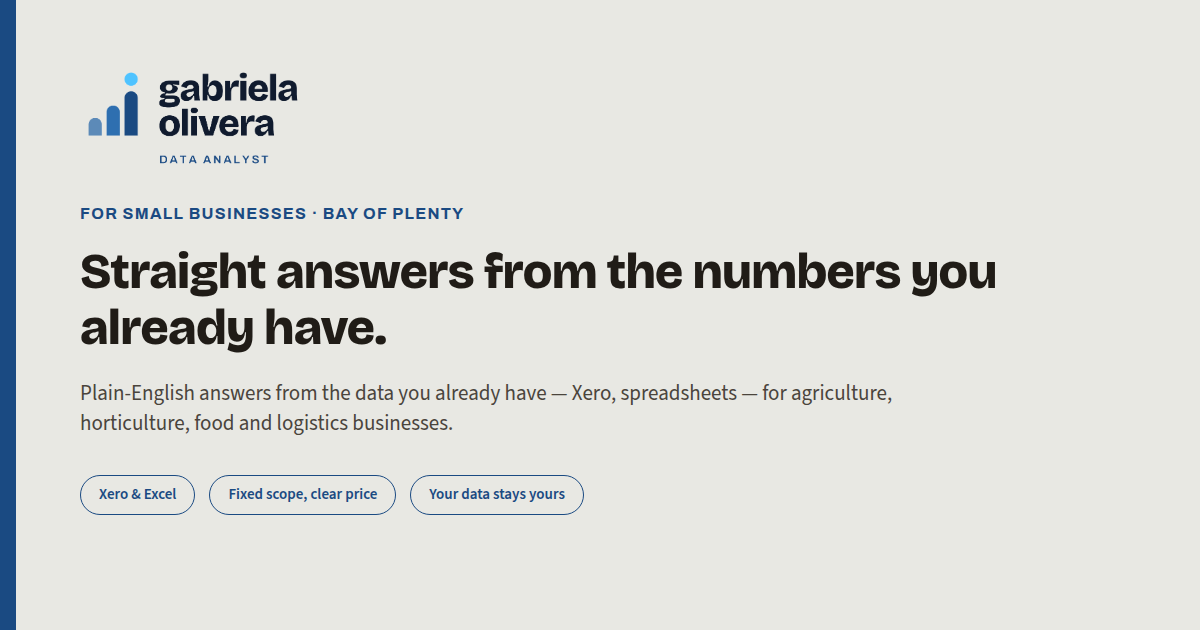
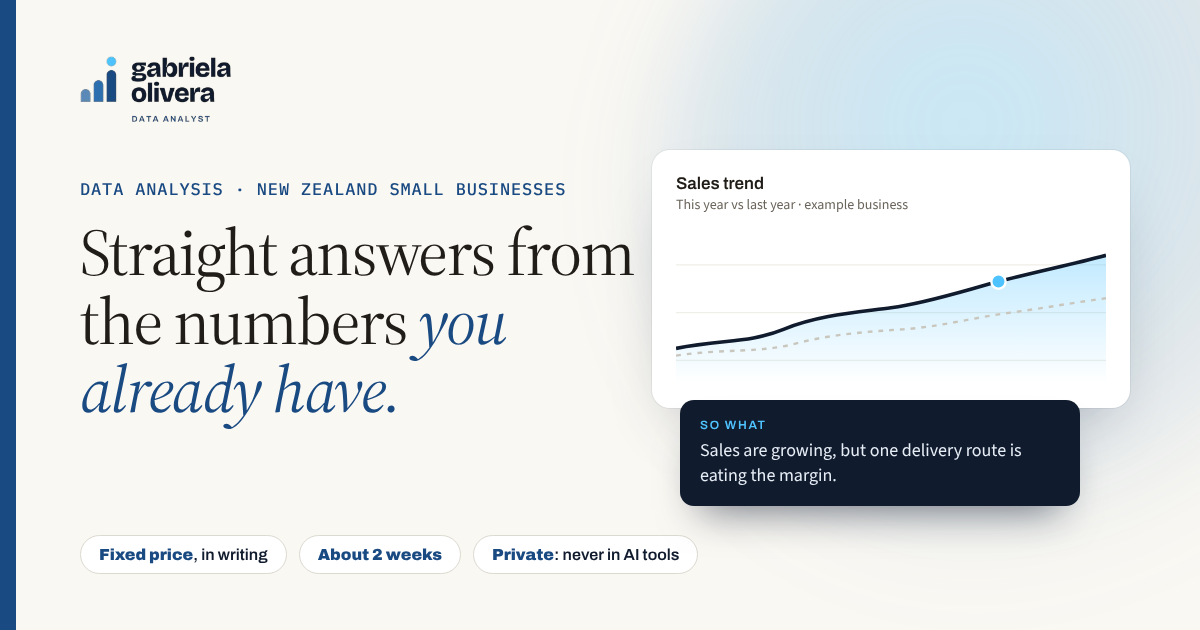
Share cards redesigned to match the site; home meta description covers all NZ small businesses; licence lists the new fonts
Claude-Session: https://claude.ai/code/session_01YEdAGcppATCkLyBV433t5n

diff --git a/scripts/og-card-small-business-template.html b/scripts/og-card-small-business-template.html
@@ -1,85 +1,49 @@
 <!DOCTYPE html>
 <!--
-  Source template for assets/images/og-card-small-business.png — the
-  small-business/index.html-only counterpart to og-card-template.html
-  (which still covers index.html and 404.html's shared card). Not part of
-  the shipped site — nothing links here. Regenerate the PNG with
-  `npm run generate:og-card:small-business` after editing this file, any
-  of the copy below, assets/images/logo-mark.png, or --accent/--bg/--text*
-  in assets/styles.css. See CLAUDE.md, "The small-business page has its
-  own OG card".
+  Source template for assets/images/og-card-small-business.png, the share card for the
+  home page (index.html). The file name is historical (the home page was the small-business
+  page until 2026-10-27). Not part of the shipped site. Redesigned 30 Oct 2026 to match the
+  consultancy redesign. Keep the 16px #1A4A82 bar: check:og-card counts its pixels against
+  --accent in assets/styles.css.
 -->
-<html lang="en-NZ">
-<head>
-<meta charset="utf-8">
-<title>OG card template — small business (not a real page)</title>
-<link rel="stylesheet" href="../assets/styles.css">
-<style>
-  html, body { margin: 0; padding: 0; }
-  .card {
-    width: 1200px;
-    height: 630px;
-    position: relative;
-    background: var(--bg);
-    overflow: hidden;
-  }
-  .card__bar { position: absolute; left: 0; top: 0; width: 16px; height: 100%; background: var(--accent); }
-  .card__content { position: absolute; left: 80px; top: 64px; right: 80px; }
-  .card__logo { height: 108px; margin-bottom: 30px; display: block; }
-  .card__eyebrow {
-    font-family: var(--font-heading);
-    font-weight: 700;
-    font-size: 16px;
-    letter-spacing: 0.08em;
-    text-transform: uppercase;
-    color: var(--accent);
-    margin: 0 0 18px;
-  }
-  .card__title {
-    font-family: var(--font-display);
-    font-weight: 800;
-    font-size: 50px;
-    line-height: 1.12;
-    letter-spacing: -0.015em;
-    color: var(--text);
-    margin: 0 0 22px;
-    max-width: 980px;
-  }
-  .card__lede {
-    font-family: var(--font-body);
-    font-weight: 400;
-    font-size: 21px;
-    line-height: 1.45;
-    color: var(--text-muted);
-    max-width: 880px;
-    margin: 0 0 36px;
-  }
-  .card__badges { display: flex; gap: 14px; }
-  .card__badge {
-    font-family: var(--font-body);
-    font-weight: 600;
-    font-size: 15px;
-    color: var(--accent);
-    border: 1.5px solid var(--accent);
-    border-radius: 999px;
-    padding: 8px 18px;
-  }
-</style>
-</head>
-<body>
-  <div class="card">
-    <div class="card__bar"></div>
-    <div class="card__content">
-      <img class="card__logo" src="../assets/images/logo-mark.png" alt="">
-      <p class="card__eyebrow">For small businesses &middot; Bay of Plenty</p>
-      <h1 class="card__title">Straight answers from the numbers you already have.</h1>
-      <p class="card__lede">Plain-English answers from the data you already have &mdash; Xero, spreadsheets &mdash; for agriculture, horticulture, food and logistics businesses.</p>
-      <div class="card__badges">
-        <div class="card__badge">Xero &amp; Excel</div>
-        <div class="card__badge">Fixed scope, clear price</div>
-        <div class="card__badge">Your data stays yours</div>
-      </div>
-    </div>
-  </div>
-</body>
-</html>
+<html lang="en-NZ"><head><meta charset="utf-8"><title>OG card template, home (not a real page)</title>
+<style>@font-face{font-family:"Source Serif 4";font-weight:200 900;src:url("../assets/fonts/source-serif-4-latin.woff2") format("woff2")}
+@font-face{font-family:"Source Serif 4";font-style:italic;font-weight:200 900;src:url("../assets/fonts/source-serif-4-latin-italic.woff2") format("woff2")}
+@font-face{font-family:"IBM Plex Mono";font-weight:500;src:url("../assets/fonts/ibm-plex-mono-latin-500.woff2") format("woff2")}
+@font-face{font-family:"Source Sans 3";font-weight:400 700;src:url("../assets/fonts/source-sans-3-latin.woff2") format("woff2")}
+@font-face{font-family:"Archivo";font-weight:500 900;src:url("../assets/fonts/archivo-latin.woff2") format("woff2")}
+html,body{margin:0;padding:0}
+.card{width:1200px;height:630px;position:relative;overflow:hidden;background:#faf8f3;font-family:"Source Sans 3",sans-serif;color:#201c17}
+.card::before{content:"";position:absolute;width:760px;height:760px;right:-220px;top:-180px;border-radius:50%;background:radial-gradient(circle at 40% 40%,rgba(79,195,255,.30),rgba(46,111,176,.14) 45%,transparent 70%);filter:blur(50px)}
+/* exact --accent bar: check:og-card counts these pixels */
+.bar{position:absolute;left:0;top:0;width:16px;height:100%;background:#1A4A82}
+.logo{position:absolute;left:80px;top:56px;height:66px}
+.lab{font:500 17px "IBM Plex Mono",monospace;letter-spacing:.05em;text-transform:uppercase;color:#1a4a82;margin:0}
+h1{font:400 66px/1.04 "Source Serif 4",serif;letter-spacing:-.025em;margin:18px 0 0;color:#201c17}
+h1 em{font-style:italic;color:#1a4a82}
+.lede{font-size:23px;line-height:1.45;color:#5c564a;margin:20px 0 0}
+
+.txt{position:absolute;left:80px;top:178px;width:600px}
+.chips{position:absolute;left:80px;bottom:56px;display:flex;gap:12px}
+.chip{font:600 16px "Archivo",sans-serif;color:#101b2e;background:#fff;border:1px solid #dcd9d0;border-radius:999px;padding:10px 18px}
+.chip b{color:#1a4a82}
+.cc{position:absolute;right:70px;top:150px;width:430px;background:#fff;border-radius:18px;padding:24px;box-shadow:0 0 0 1px rgba(16,27,46,.06),0 30px 60px -28px rgba(16,27,46,.35)}
+.cc .h{font:600 17px "Archivo",sans-serif}.cc .s{font-size:14px;color:#6a645a;margin-top:2px}
+.cc svg{display:block;width:100%;height:auto;margin-top:14px}
+.sw{position:absolute;right:120px;top:400px;width:360px;background:#101b2e;color:#e7eef6;border-radius:14px;padding:18px 20px;font-size:18px;line-height:1.4;box-shadow:0 24px 40px -20px rgba(16,27,46,.6)}
+.sw b{display:block;font:600 12px "Archivo",sans-serif;letter-spacing:.14em;color:#4fc3ff;margin-bottom:6px}
+</style></head><body>
+<div class="card"><div class="bar"></div>
+<img class="logo" src="../assets/images/logo-wordmark.png" alt="">
+<div class="txt"><p class="lab">Data analysis · New Zealand small businesses</p>
+<h1>Straight answers from the numbers <em>you already have.</em></h1></div>
+<div class="chips"><span class="chip"><b>Fixed price</b>, in writing</span><span class="chip"><b>About 2 weeks</b></span><span class="chip"><b>Private</b>: never in AI tools</span></div>
+<div class="cc"><div class="h">Sales trend</div><div class="s">This year vs last year · example business</div>
+<svg viewBox="0 0 360 130"><defs><linearGradient id="g" x1="0" y1="0" x2="0" y2="1"><stop offset="0" stop-color="#4fc3ff" stop-opacity=".35"/><stop offset="1" stop-color="#4fc3ff" stop-opacity="0"/></linearGradient></defs>
+<g stroke="#efeee8"><path d="M0 30H360M0 70H360M0 110H360"/></g>
+<path d="M0 100 C40 92 60 96 90 84 S150 70 180 66 S240 52 270 44 S330 30 360 22 V130 H0Z" fill="url(#g)"/>
+<path d="M0 106 C40 100 70 104 100 96 S160 86 190 84 S250 74 280 70 S330 62 360 58" fill="none" stroke="#c9c6bd" stroke-width="2" stroke-dasharray="4 5"/>
+<path d="M0 100 C40 92 60 96 90 84 S150 70 180 66 S240 52 270 44 S330 30 360 22" fill="none" stroke="#101b2e" stroke-width="3"/>
+<circle cx="270" cy="44" r="6" fill="#4fc3ff" stroke="#fff" stroke-width="2"/></svg></div>
+<div class="sw"><b>SO WHAT</b>Sales are growing, but one delivery route is eating the margin.</div>
+</div></body></html>

diff --git a/scripts/og-card-template.html b/scripts/og-card-template.html
@@ -1,84 +1,46 @@
 <!DOCTYPE html>
 <!--
-  Source template for assets/images/og-card.png. Not part of the shipped
-  site — nothing links here. Regenerate the PNG with
-  `npm run generate:og-card` after editing this file, any of the numbers
-  below, or --accent/--bg/--text* in assets/styles.css. See CLAUDE.md,
-  "The OG card carries its own copy of both the tokens and the numbers".
+  Source template for assets/images/og-card.png, the share card for work/index.html.
+  Not part of the shipped site. Redesigned 30 Oct 2026. The three figures are part of the
+  figure-staleness chain in CLAUDE.md (22,834 · 16,072 · 6 dashboard pages): change them
+  only together with the Terroir pipeline and the other copies. Keep the 16px #1A4A82 bar:
+  check:og-card counts its pixels against --accent in assets/styles.css.
 -->
-<html lang="en-NZ">
-<head>
-<meta charset="utf-8">
-<title>OG card template (not a real page)</title>
-<link rel="stylesheet" href="../assets/styles.css">
-<style>
-  html, body { margin: 0; padding: 0; }
-  .card {
-    width: 1200px;
-    height: 630px;
-    position: relative;
-    background: var(--bg);
-    overflow: hidden;
-  }
-  .card__bar { position: absolute; left: 0; top: 0; width: 16px; height: 100%; background: var(--accent); }
-  .card__content { position: absolute; left: 80px; top: 138px; right: 80px; }
-  .card__eyebrow {
-    font-family: var(--font-heading);
-    font-weight: 700;
-    font-size: 17px;
-    letter-spacing: 0.08em;
-    text-transform: uppercase;
-    color: var(--accent);
-    margin: 0 0 16px;
-  }
-  .card__title {
-    font-family: var(--font-display);
-    font-weight: 800;
-    font-size: 68px;
-    line-height: 1.05;
-    letter-spacing: -0.02em;
-    color: var(--text);
-    margin: 0 0 28px;
-  }
-  .card__lede {
-    font-family: var(--font-body);
-    font-weight: 400;
-    font-size: 24px;
-    line-height: 1.4;
-    color: var(--text-muted);
-    max-width: 900px;
-    margin: 0 0 48px;
-  }
-  .card__stats { display: flex; gap: 64px; }
-  .card__stat-value {
-    font-family: var(--font-heading);
-    font-weight: 900;
-    font-size: 46px;
-    letter-spacing: -0.02em;
-    color: var(--accent);
-  }
-  .card__stat-label {
-    font-family: var(--font-body);
-    font-weight: 400;
-    font-size: 16px;
-    color: var(--text-subtle);
-    margin-top: 6px;
-  }
-</style>
-</head>
-<body>
-  <div class="card">
-    <div class="card__bar"></div>
-    <div class="card__content">
-      <p class="card__eyebrow">Data analyst &middot; Mount Maunganui</p>
-      <h1 class="card__title">Gabriela Olivera</h1>
-      <p class="card__lede">Operational data, end to end &mdash; pipelines, models, dashboards people actually use.</p>
-      <div class="card__stats">
-        <div><div class="card__stat-value">22,834</div><div class="card__stat-label">parcels</div></div>
-        <div><div class="card__stat-value">16,072</div><div class="card__stat-label">scored</div></div>
-        <div><div class="card__stat-value">6</div><div class="card__stat-label">dashboard pages</div></div>
-      </div>
-    </div>
-  </div>
-</body>
-</html>
+<html lang="en-NZ"><head><meta charset="utf-8"><title>OG card template, work (not a real page)</title>
+<style>@font-face{font-family:"Source Serif 4";font-weight:200 900;src:url("../assets/fonts/source-serif-4-latin.woff2") format("woff2")}
+@font-face{font-family:"Source Serif 4";font-style:italic;font-weight:200 900;src:url("../assets/fonts/source-serif-4-latin-italic.woff2") format("woff2")}
+@font-face{font-family:"IBM Plex Mono";font-weight:500;src:url("../assets/fonts/ibm-plex-mono-latin-500.woff2") format("woff2")}
+@font-face{font-family:"Source Sans 3";font-weight:400 700;src:url("../assets/fonts/source-sans-3-latin.woff2") format("woff2")}
+@font-face{font-family:"Archivo";font-weight:500 900;src:url("../assets/fonts/archivo-latin.woff2") format("woff2")}
+html,body{margin:0;padding:0}
+.card{width:1200px;height:630px;position:relative;overflow:hidden;background:#faf8f3;font-family:"Source Sans 3",sans-serif;color:#201c17}
+.card::before{content:"";position:absolute;width:760px;height:760px;right:-220px;top:-180px;border-radius:50%;background:radial-gradient(circle at 40% 40%,rgba(79,195,255,.30),rgba(46,111,176,.14) 45%,transparent 70%);filter:blur(50px)}
+/* exact --accent bar: check:og-card counts these pixels */
+.bar{position:absolute;left:0;top:0;width:16px;height:100%;background:#1A4A82}
+.logo{position:absolute;left:80px;top:56px;height:66px}
+.lab{font:500 17px "IBM Plex Mono",monospace;letter-spacing:.05em;text-transform:uppercase;color:#1a4a82;margin:0}
+h1{font:400 66px/1.04 "Source Serif 4",serif;letter-spacing:-.025em;margin:18px 0 0;color:#201c17}
+h1 em{font-style:italic;color:#1a4a82}
+.lede{font-size:23px;line-height:1.45;color:#5c564a;margin:20px 0 0}
+
+.txt{position:absolute;left:80px;top:178px;width:640px}
+h1{font-size:80px}
+.stats{position:absolute;left:80px;bottom:62px;display:flex;gap:0;border-top:1px solid #dcd9d0;padding-top:20px}
+.stats>div{padding-right:56px}.stats>div+div{padding-left:40px;border-left:1px solid #dcd9d0}
+.v{font:400 52px/1 "Source Serif 4",serif;color:#1a4a82;letter-spacing:-.02em}
+.l{font:500 14px "IBM Plex Mono",monospace;letter-spacing:.05em;text-transform:uppercase;color:#5c564a;margin-top:10px}
+.ap{position:absolute;right:80px;top:150px;width:360px;background:#fff;border-radius:18px;padding:22px 24px;box-shadow:0 0 0 1px rgba(16,27,46,.06),0 30px 60px -28px rgba(16,27,46,.35)}
+.ap .k{font:700 14px "Archivo",sans-serif;letter-spacing:.14em;color:#1a4a82}.ap .s{font-size:16px;color:#5c564a;margin-top:6px}.ap svg{display:block;width:100%;margin-top:14px}.ap .f{display:flex;justify-content:space-between;font:600 15px "Archivo",sans-serif;margin-top:12px}
+.ph{position:absolute;right:90px;top:150px;width:300px;height:300px;border-radius:50%;overflow:hidden;box-shadow:0 30px 60px -30px rgba(16,27,46,.45)}
+.ph img{width:100%;height:100%;object-fit:cover}
+.dot{position:absolute;right:220px;top:136px;width:28px;height:28px;border-radius:50%;background:#4fc3ff;border:4px solid #faf8f3;z-index:2}
+</style></head><body>
+<div class="card"><div class="bar"></div>
+<img class="logo" src="../assets/images/logo-wordmark.png" alt="">
+<div class="txt"><p class="lab">Data analyst · Mount Maunganui</p>
+<h1>Gabriela Olivera<em>.</em></h1><p class="lede">Clear answers from messy data.</p></div>
+<div class="stats"><div><div class="v">22,834</div><div class="l">parcels analysed</div></div><div><div class="v">16,072</div><div class="l">scored</div></div><div><div class="v">6</div><div class="l">dashboard pages</div></div></div>
+<div class="ap"><div class="k">APOPHENIA · RISK</div><div class="s">Export season, 26-week forecast</div>
+<svg viewBox="0 0 320 110"><path d="M0 92 L40 84 L80 88 L120 70 L160 74 L200 56 L230 50" fill="none" stroke="#1a4a82" stroke-width="3"/><path d="M230 50 L320 30 L320 10 L230 50Z" fill="#4fc3ff" opacity=".25"/><path d="M230 50 L320 22" fill="none" stroke="#4fc3ff" stroke-width="3" stroke-dasharray="7 6"/><line x1="230" y1="0" x2="230" y2="110" stroke="#c9c6bd" stroke-dasharray="3 4"/></svg>
+<div class="f"><span>9 live variables</span><span>4 feeds</span></div></div>
+</div></body></html>

diff --git a/index.html b/index.html
@@ -5,7 +5,7 @@
 <script>if(location.hostname==='gabrielaoliveranz.github.io'){location.replace('https://gabrielaolivera.nz'+location.pathname+location.search+location.hash);}</script>
 <meta name="viewport" content="width=device-width, initial-scale=1">
 <title>Gabriela Olivera | Data Analyst for Small Businesses | New Zealand</title>
-<meta name="description" content="Data analysis for New Zealand small businesses in agriculture, horticulture, food and logistics. Plain-English answers from the data you already have.">
+<meta name="description" content="Data analysis for New Zealand small businesses. Straight answers from the numbers you already have: Xero, Excel and your spreadsheets, turned into a fixed-price dashboard.">
 <link rel="canonical" href="https://gabrielaolivera.nz/">
 <meta name="p:domain_verify" content="4164691f1fcfd8190d1022d4ff3ad30b">
 
@@ -13,17 +13,17 @@
 <meta property="og:site_name" content="Gabriela Olivera">
 <meta property="og:url" content="https://gabrielaolivera.nz/">
 <meta property="og:title" content="Gabriela Olivera | Data Analyst for Small Businesses | New Zealand">
-<meta property="og:description" content="Plain-English answers from the data you already have (Xero, spreadsheets), for New Zealand agriculture, horticulture, food and logistics businesses.">
+<meta property="og:description" content="Data analysis for New Zealand small businesses. Straight answers from the numbers you already have: Xero, Excel and your spreadsheets, turned into a fixed-price dashboard.">
 <meta property="og:image" content="https://gabrielaolivera.nz/assets/images/og-card-small-business.png">
 <meta property="og:image:width" content="1200">
 <meta property="og:image:height" content="630">
-<meta property="og:image:alt" content="Gabriela Olivera, for small businesses in Bay of Plenty: straight answers from the numbers you already have.">
+<meta property="og:image:alt" content="Gabriela Olivera, data analysis for New Zealand small businesses: straight answers from the numbers you already have. Fixed price, about 2 weeks, never in AI tools.">
 
 <meta name="twitter:card" content="summary_large_image">
 <meta name="twitter:title" content="Gabriela Olivera | Data Analyst for Small Businesses | New Zealand">
-<meta name="twitter:description" content="Plain-English answers from the data you already have (Xero, spreadsheets), for New Zealand agriculture, horticulture, food and logistics businesses.">
+<meta name="twitter:description" content="Data analysis for New Zealand small businesses. Straight answers from the numbers you already have: Xero, Excel and your spreadsheets, turned into a fixed-price dashboard.">
 <meta name="twitter:image" content="https://gabrielaolivera.nz/assets/images/og-card-small-business.png">
-<meta name="twitter:image:alt" content="Gabriela Olivera, for small businesses in Bay of Plenty: straight answers from the numbers you already have.">
+<meta name="twitter:image:alt" content="Gabriela Olivera, data analysis for New Zealand small businesses: straight answers from the numbers you already have. Fixed price, about 2 weeks, never in AI tools.">
 
 <link rel="icon" type="image/png" href="assets/favicon.png">
 <!-- Cookie-free analytics (GoatCounter). The privacy policy describes it. -->

diff --git a/work/index.html b/work/index.html
@@ -16,13 +16,13 @@
 <meta property="og:image" content="https://gabrielaolivera.nz/assets/images/og-card.png">
 <meta property="og:image:width" content="1200">
 <meta property="og:image:height" content="630">
-<meta property="og:image:alt" content="Gabriela Olivera | Data Analyst | Mount Maunganui. 22,834 parcels · 16,072 scored · 6-page dashboard.">
+<meta property="og:image:alt" content="Gabriela Olivera, data analyst, Mount Maunganui. Clear answers from messy data. 22,834 parcels analysed · 16,072 scored · 6 dashboard pages.">
 
 <meta name="twitter:card" content="summary_large_image">
 <meta name="twitter:title" content="Work · Gabriela Olivera, Data Analyst">
 <meta name="twitter:description" content="I help small businesses make sense of their own data, and build geospatial and operational-risk analytics projects, pipelines, models and dashboards people actually use.">
 <meta name="twitter:image" content="https://gabrielaolivera.nz/assets/images/og-card.png">
-<meta name="twitter:image:alt" content="Gabriela Olivera | Data Analyst | Mount Maunganui. 22,834 parcels · 16,072 scored · 6-page dashboard.">
+<meta name="twitter:image:alt" content="Gabriela Olivera, data analyst, Mount Maunganui. Clear answers from messy data. 22,834 parcels analysed · 16,072 scored · 6 dashboard pages.">
 
 <link rel="icon" type="image/png" href="../assets/favicon.png">
 <link rel="stylesheet" href="../assets/site.css?v=20261024a">

diff --git a/LICENSE.md b/LICENSE.md
@@ -30,8 +30,9 @@ covers it, rather than a software licence like MIT.
 
 **What this licence does not cover:**
 
-- **`assets/fonts/`** — Archivo, Source Sans 3 and Bricolage Grotesque
-  are Google Fonts, distributed under the [SIL Open Font License 1.1](https://openfontlicense.org/).
+- **`assets/fonts/`** — Archivo, Source Sans 3, Source Serif 4, IBM Plex Mono
+  and Bricolage Grotesque are Google Fonts (Source Serif 4 and IBM Plex Mono
+  were taken from the Fontsource packages of the same files), distributed under the [SIL Open Font License 1.1](https://openfontlicense.org/).
   Self-hosting the `.woff2` files here doesn't relicense them; they
   remain under the OFL, same as if they were loaded from Google's own
   servers.

diff --git a/NEXT-STEPS.md b/NEXT-STEPS.md
@@ -33,12 +33,6 @@ The previous design's stylesheet is no longer loaded by any page, but
 together with pointing that script (and the OG card generator) at
 `assets/site.css`.
 
-## OG card images
-
-The social share images (`og-card.png`, `og-card-small-business.png`) still
-use the previous design. Regenerate them from updated templates in
-`scripts/` so links shared on LinkedIn match the October 2026 redesign.
-
 ## Plan prices
 
 Publish "from" prices on the three plan cards once 3 to 4 case studies are
